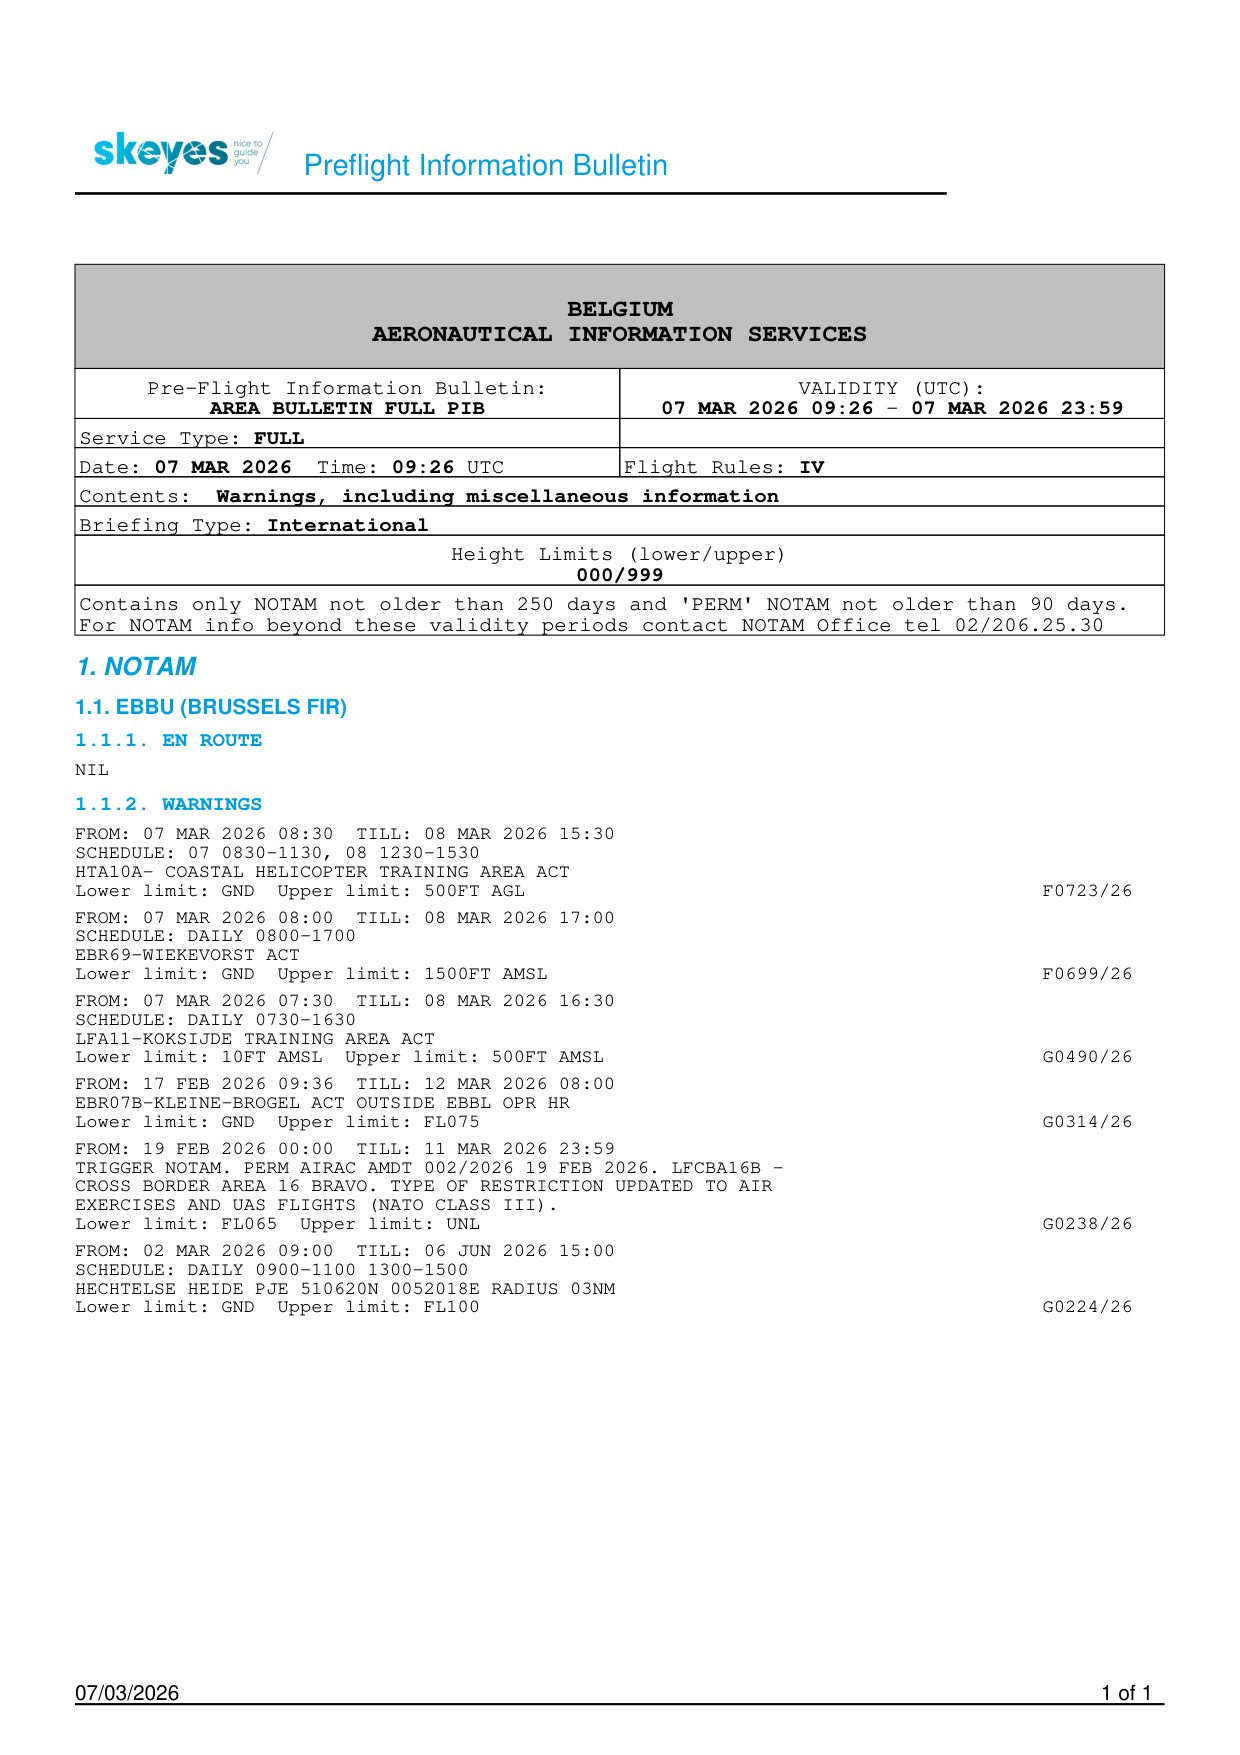
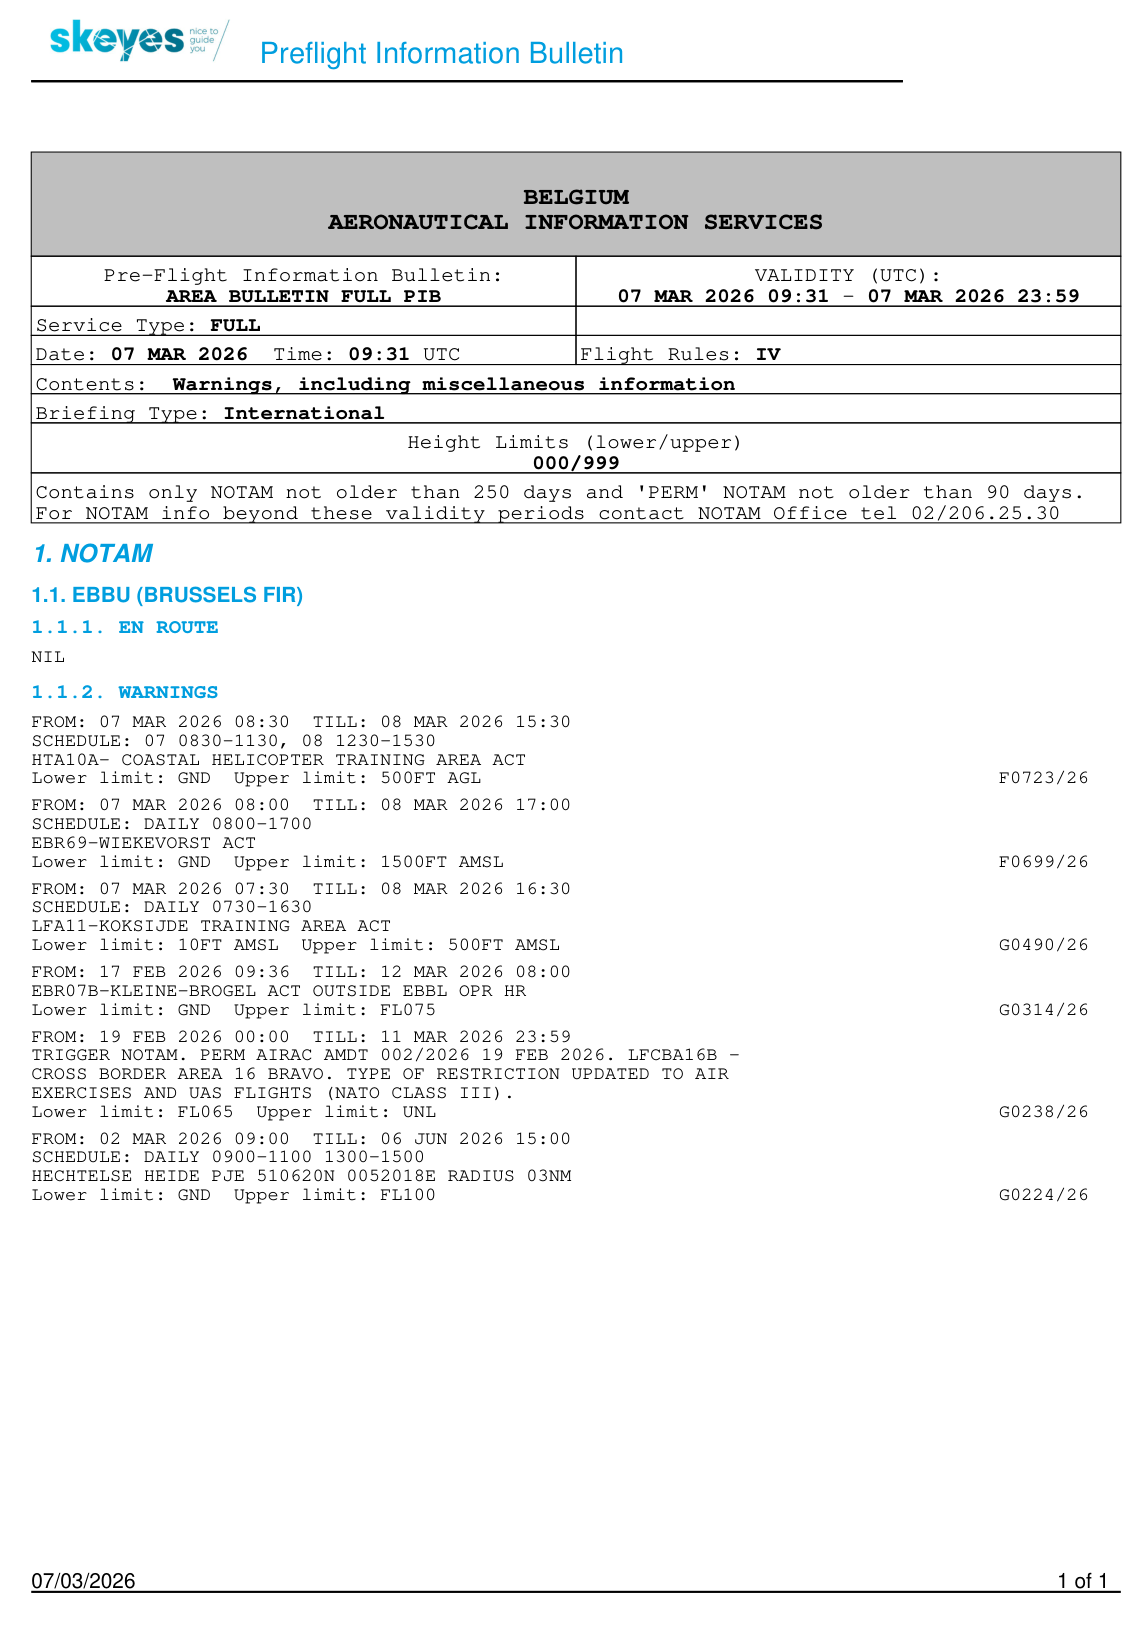
Fix rognage image

diff --git a/fetch_notams.py b/fetch_notams.py
@@ -67,15 +67,18 @@ def main():
         html_images = ""
         for page_num in range(len(doc)):
             page = doc.load_page(page_num)
-            # Crop margins if PyMuPDF version doesn't support get_bbox_of_contents, use bbox alternatively
-            try:
-                bbox = page.get_bbox_of_contents()
-            except AttributeError:
-                # Fallback to compute visually if the method is not available in that version of PyMuPDF
-                bbox = page.get_bounding_box(1) if hasattr(page, 'get_bounding_box') else page.rect
-            
-            rect = fitz.Rect(max(0, bbox.x0 - 10), max(0, bbox.y0 - 10), min(page.rect.x1, bbox.x1 + 10), min(page.rect.y1, bbox.y1 + 10))
-            page.set_cropbox(rect)
+            # Crop margins en cherchant les blocs de contenu
+            blocks = page.get_text("blocks")
+            if blocks:
+                x0 = min(b[0] for b in blocks)
+                y0 = min(b[1] for b in blocks)
+                x1 = max(b[2] for b in blocks)
+                y1 = max(b[3] for b in blocks)
+                
+                # Marge de 15px autour du vrai contenu pour aérer
+                margin = 15
+                rect = fitz.Rect(max(0, x0 - margin), max(0, y0 - margin), min(page.rect.x1, x1 + margin), min(page.rect.y1, y1 + margin))
+                page.set_cropbox(rect)
             
             pix = page.get_pixmap(dpi=150) # Bonne résolution
             img_filename = f"daily_warnings_page_{page_num}.png"
